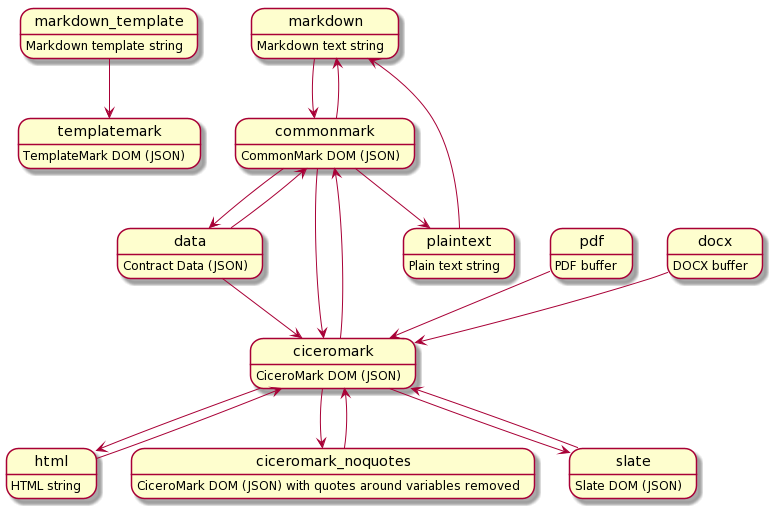
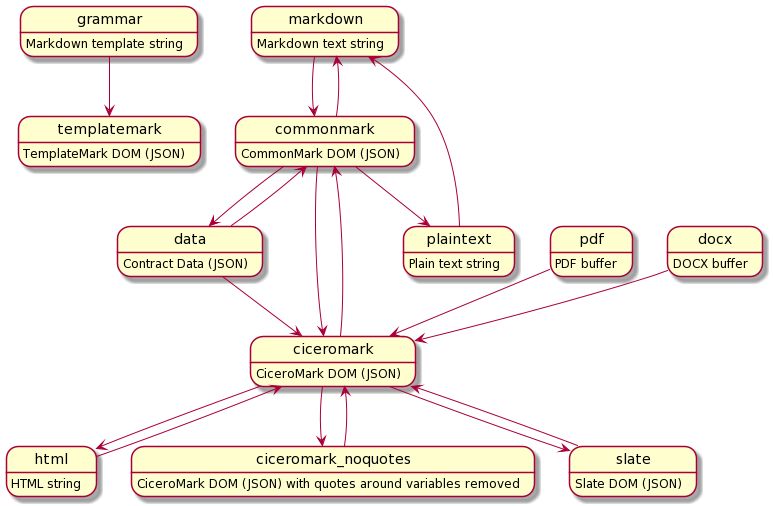
feature(transform) token streams are now proper formats and in the transforms

diff --git a/packages/markdown-transform/lib/transform.js b/packages/markdown-transform/lib/transform.js
@@ -30,16 +30,28 @@ const DocxTransformer = require('@accordproject/markdown-docx').DocxTransformer;
 /**
  * The graph of transformation supported
  */
-const markdownTemplateToTemplateMark = async (input,parameters,options) => {
+const grammarToTemplateMark = async (input,parameters,options) => {
     const t = new TemplateMarkTransformer();
     const modelManager = await ModelLoader.loadModelManager(null, parameters.ctoFiles);
     return t.fromMarkdownTemplate({ fileName:parameters.inputFileName, content:input }, modelManager, parameters.templateKind, options);
 };
 const transformationGraph = {
-    markdown_template : {
-        docs: 'Markdown template string',
+    grammar : {
+        docs: 'Markdown grammar string',
         fileFormat: 'utf8',
-        templatemark: markdownTemplateToTemplateMark,
+        grammar_tokens: (input,parameters,options) => {
+            const t = new TemplateMarkTransformer();
+            return t.toTokens({ fileName:parameters.inputFileName, content:input }, options);
+        },
+    },
+    grammar_tokens : {
+        docs: 'Markdown grammar tokens',
+        fileFormat: 'json',
+        templatemark: async (input,parameters,options) => {
+            const t = new TemplateMarkTransformer();
+            const modelManager = await ModelLoader.loadModelManager(null, parameters.ctoFiles);
+            return t.tokensToMarkdownTemplate(input, modelManager, parameters.templateKind, options);
+        },
     },
     templatemark : {
         docs: 'TemplateMark DOM (JSON)',
@@ -48,9 +60,17 @@ const transformationGraph = {
     markdown : {
         docs: 'Markdown text string',
         fileFormat: 'utf8',
-        commonmark : (input,parameters,options) => {
+        markdown_tokens: (input,parameters,options) => {
+            const t = new TemplateMarkTransformer();
+            return t.toTokens({ fileName:parameters.inputFileName, content:input }, options);
+        },
+    },
+    markdown_tokens : {
+        docs: 'Markdown tokens',
+        fileFormat: 'json',
+        commonmark: async (input,parameters,options) => {
             const t = new CommonMarkTransformer(Object.assign(options,{tagInfo: true}));
-            return t.fromMarkdown(input, 'json');
+            return t.fromTokens(input,'json');
         },
     },
     data : {
@@ -61,7 +81,7 @@ const transformationGraph = {
             const modelManager = await ModelLoader.loadModelManager(null, parameters.ctoFiles);
             const templateParameters = Object.assign({},parameters);
             templateParameters.inputFileName = parameters.grammarFileName;
-            const templateMark = await markdownTemplateToTemplateMark(parameters.grammar,templateParameters,options);
+            const templateMark = await grammarToTemplateMark(parameters.grammar,templateParameters,options);
             return t.instantiateCommonMark(input, templateMark, modelManager, parameters.templateKind, options);
         },
         ciceromark: async (input,parameters,options) => {
@@ -69,7 +89,7 @@ const transformationGraph = {
             const modelManager = await ModelLoader.loadModelManager(null, parameters.ctoFiles);
             const templateParameters = Object.assign({},parameters);
             templateParameters.inputFileName = parameters.grammarFileName;
-            const templateMark = await markdownTemplateToTemplateMark(parameters.grammar,templateParameters,options);
+            const templateMark = await grammarToTemplateMark(parameters.grammar,templateParameters,options);
             return t.instantiateCiceroMark(input, templateMark, modelManager, parameters.templateKind, options);
         },
     },
@@ -94,7 +114,7 @@ const transformationGraph = {
             const modelManager = await ModelLoader.loadModelManager(null, parameters.ctoFiles);
             const templateParameters = Object.assign({},parameters);
             templateParameters.inputFileName = parameters.grammarFileName;
-            const templateMark = await markdownTemplateToTemplateMark(parameters.grammar,templateParameters,options);
+            const templateMark = await grammarToTemplateMark(parameters.grammar,templateParameters,options);
             return t.fromCommonMark({ fileName:parameters.inputFileName, content:input }, templateMark, modelManager, parameters.templateKind, options);
         },
     },

diff --git a/packages/markdown-template/lib/TemplateMarkTransformer.js b/packages/markdown-template/lib/TemplateMarkTransformer.js
@@ -143,14 +143,13 @@ class TemplateMarkTransformer {
     }
 
     /**
-     * Converts a template grammar string to a TemplateMark DOM
+     * Converts a template grammar string to a token stream
      * @param {object} grammarInput the template grammar
-     * @param {string} templateKind - either 'clause' or 'contract'
      * @param {object} [options] configuration options
      * @param {boolean} [options.verbose] verbose output
-     * @returns {object} the result of parsing
+     * @returns {object} the token stream
      */
-    parseGrammar(grammarInput, templateKind, options) {
+    toTokens(grammarInput, options) {
         const grammar = normalizeNLs(grammarInput.content);
 
         const parser = new MarkdownIt({html:true}).use(MarkdownItTemplate);
@@ -159,7 +158,18 @@ class TemplateMarkTransformer {
             console.log('===== MarkdownIt Tokens ');
             console.log(JSON.stringify(tokenStream,null,2));
         }
+        return tokenStream;
+    }
 
+    /**
+     * Converts a grammar token strean string to a TemplateMark DOM
+     * @param {object} tokenStream the grammar token stream
+     * @param {string} templateKind - either 'clause' or 'contract'
+     * @param {object} [options] configuration options
+     * @param {boolean} [options.verbose] verbose output
+     * @returns {object} the result of parsing
+     */
+    tokensToMarkdownTemplate(tokenStream, templateKind, options) {
         const fromMarkdownIt = new FromMarkdownIt(templaterules);
         const template = fromMarkdownIt.toCommonMark(tokenStream);
 
@@ -202,7 +212,8 @@ class TemplateMarkTransformer {
             throw new Error('Cannot parse without template model');
         }
 
-        const template = this.parseGrammar(grammarInput, templateKind, options);
+        const tokenStream = this.toTokens(grammarInput, options);
+        const template = this.tokensToMarkdownTemplate(tokenStream, templateKind, options);
 
         if (options && options.verbose) {
             console.log('===== TemplateMark ');

diff --git a/packages/markdown-common/src/CommonMarkTransformer.js b/packages/markdown-common/src/CommonMarkTransformer.js
@@ -70,18 +70,26 @@ class CommonMarkTransformer {
     }
 
     /**
-     * Converts a markdown string into a Concerto DOM object.
+     * Converts a markdown string into a token stream
      *
      * @param {string} markdown the string to parse
+     * @returns {*} a markdown-it token stream
+     */
+    toTokens(markdown) {
+        const parser = new MarkdownIt({html:true}); // XXX HTML inlines and code blocks true
+        const tokenStream = parser.parse(markdown,{});
+        return tokenStream;
+    }
+
+    /**
+     * Converts a token stream into a CommonMark DOM object.
+     *
+     * @param {object} tokenStream the token stream
      * @param {string} [format] the format of the object to return. Defaults to 'concerto.
      * Pass 'json' to return the JSON object, skipping Concerto validation
      * @returns {*} a Concerto object (DOM) for the markdown content
      */
-    fromMarkdown(markdown, format='concerto') {
-        const parser = new MarkdownIt({html:true}); // XXX HTML inlines and code blocks true
-        const tokenStream = parser.parse(markdown,{});
-        //console.log('tokens: ' + JSON.stringify(tokenStream,null,2));
-
+    fromTokens(tokenStream, format='concerto') {
         const fromMarkdownIt = new FromMarkdownIt();
         const json = fromMarkdownIt.toCommonMark(tokenStream);
 
@@ -93,6 +101,19 @@ class CommonMarkTransformer {
         else {
             return this.serializer.toJSON(validJson);
         }
+    }
+
+    /**
+     * Converts a markdown string into a CommonMark DOM object.
+     *
+     * @param {string} markdown the string to parse
+     * @param {string} [format] the format of the object to return. Defaults to 'concerto.
+     * Pass 'json' to return the JSON object, skipping Concerto validation
+     * @returns {*} a Concerto object (DOM) for the markdown content
+     */
+    fromMarkdown(markdown, format='concerto') {
+        const tokenStream = this.toTokens(markdown);
+        return this.fromTokens(tokenStream, format);
     }
 
     /**

diff --git a/packages/markdown-transform/test/transform.js b/packages/markdown-transform/test/transform.js
@@ -50,13 +50,13 @@ describe('#transform', () => {
         });
     });
 
-    describe('#markdown_template', () => {
-        it('markdown_template -> templatemark', async () => {
+    describe('#grammar', () => {
+        it('grammar -> templatemark', async () => {
             const grammar1File = './test/data/template1/grammar1.tem.md';
             const grammar1 = fs.readFileSync(grammar1File, 'utf8');
             const model1 = './test/data/template1/model1.cto';
             const parameters = { inputFileName: grammar1File, ctoFiles: [model1], templateKind: 'clause' };
-            const result = await transform(grammar1, 'markdown_template', ['templatemark'], parameters, {});
+            const result = await transform(grammar1, 'grammar', ['templatemark'], parameters, {});
             result.nodes[0].$class.should.equal('org.accordproject.templatemark.ClauseDefinition');
         });
     });
